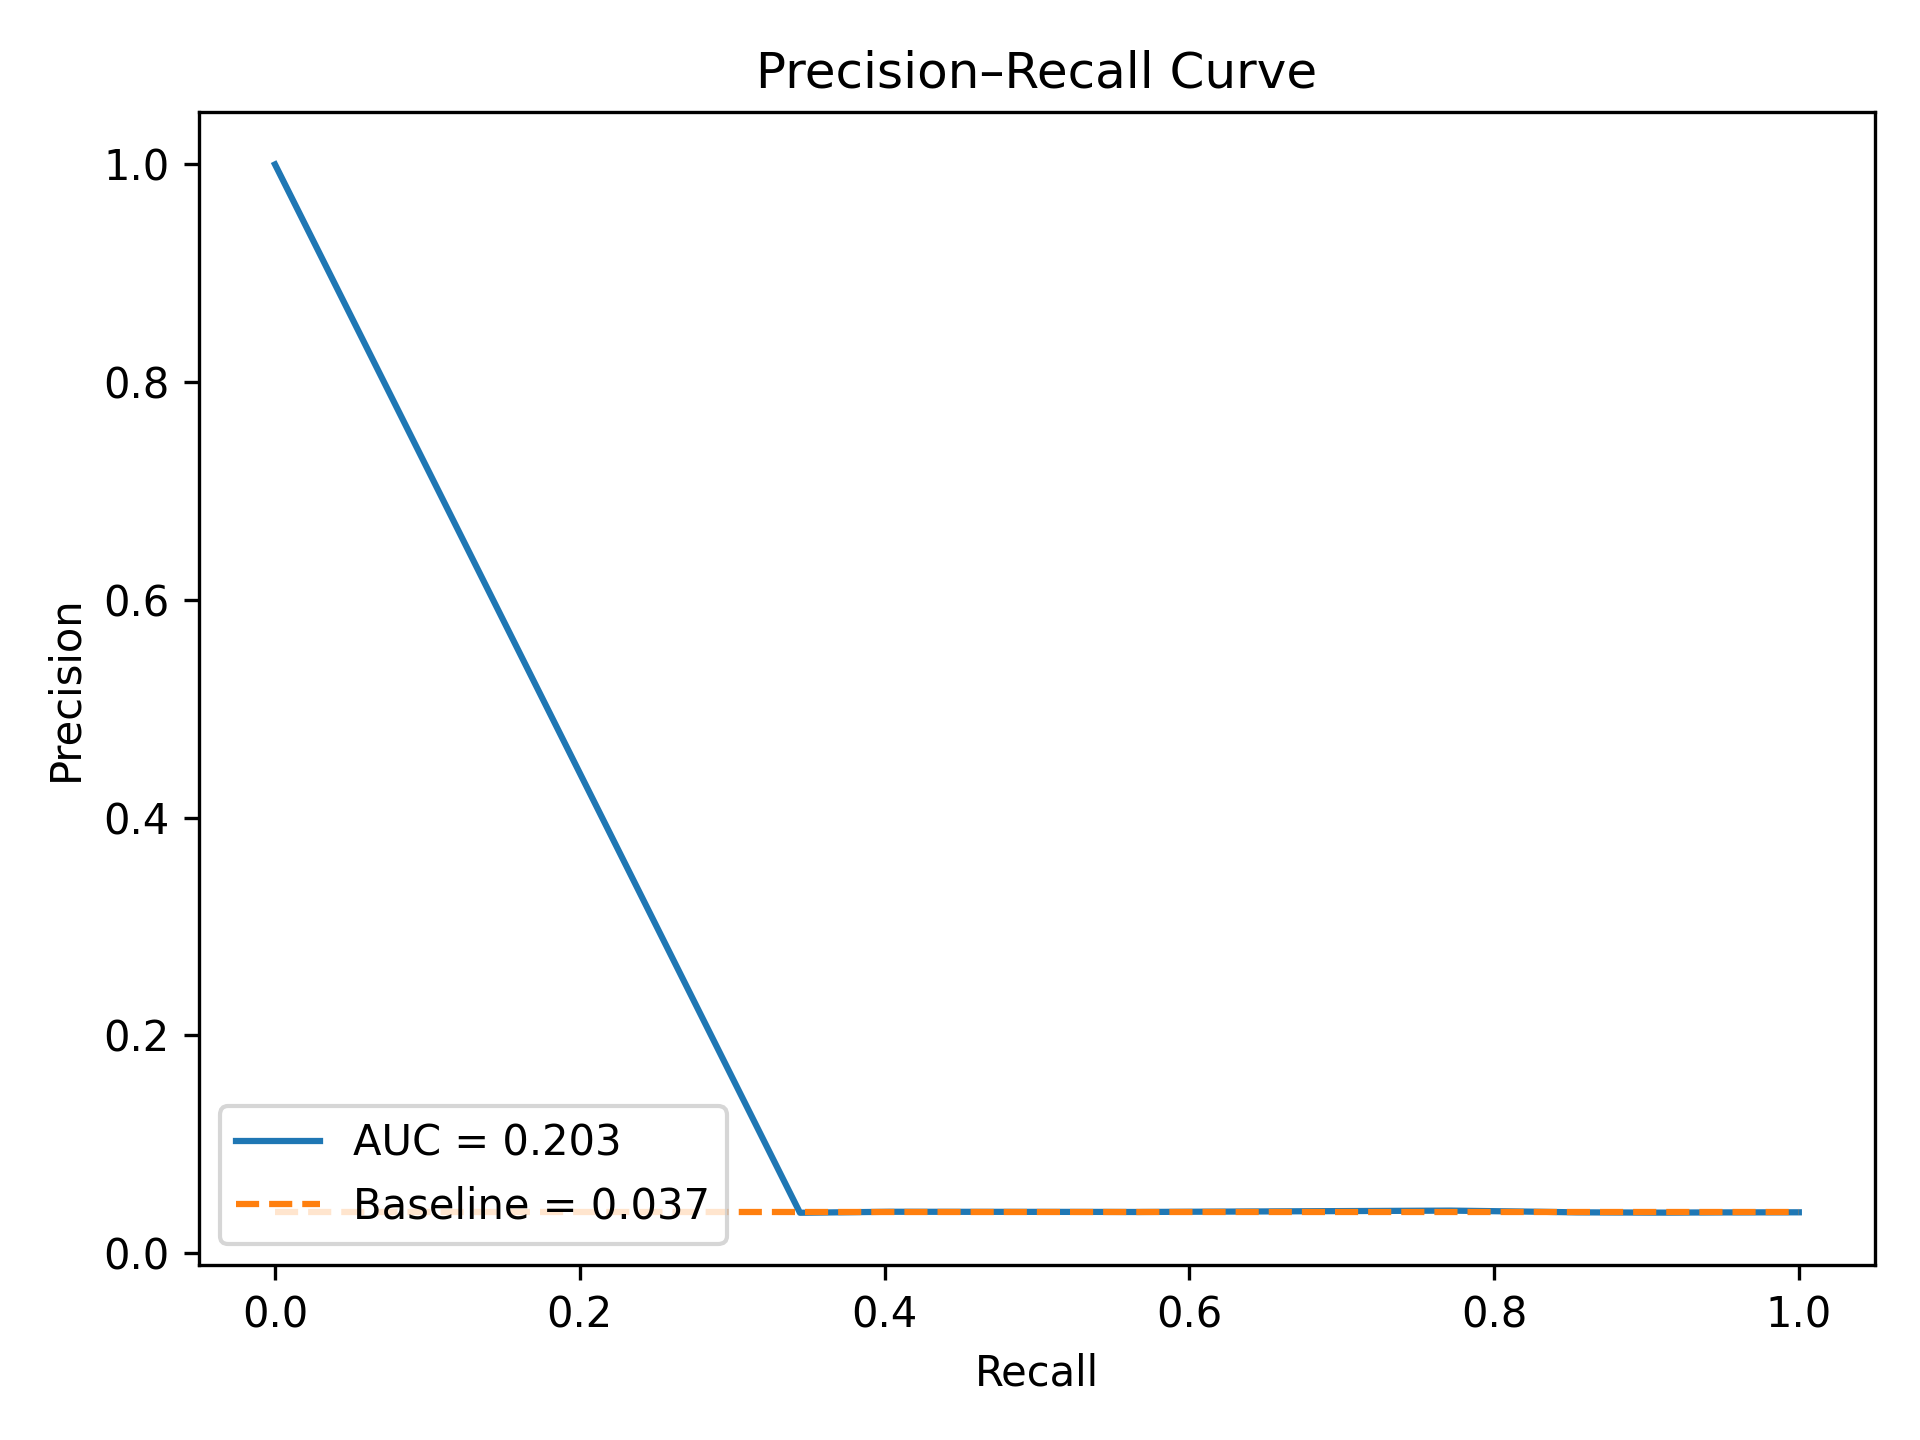
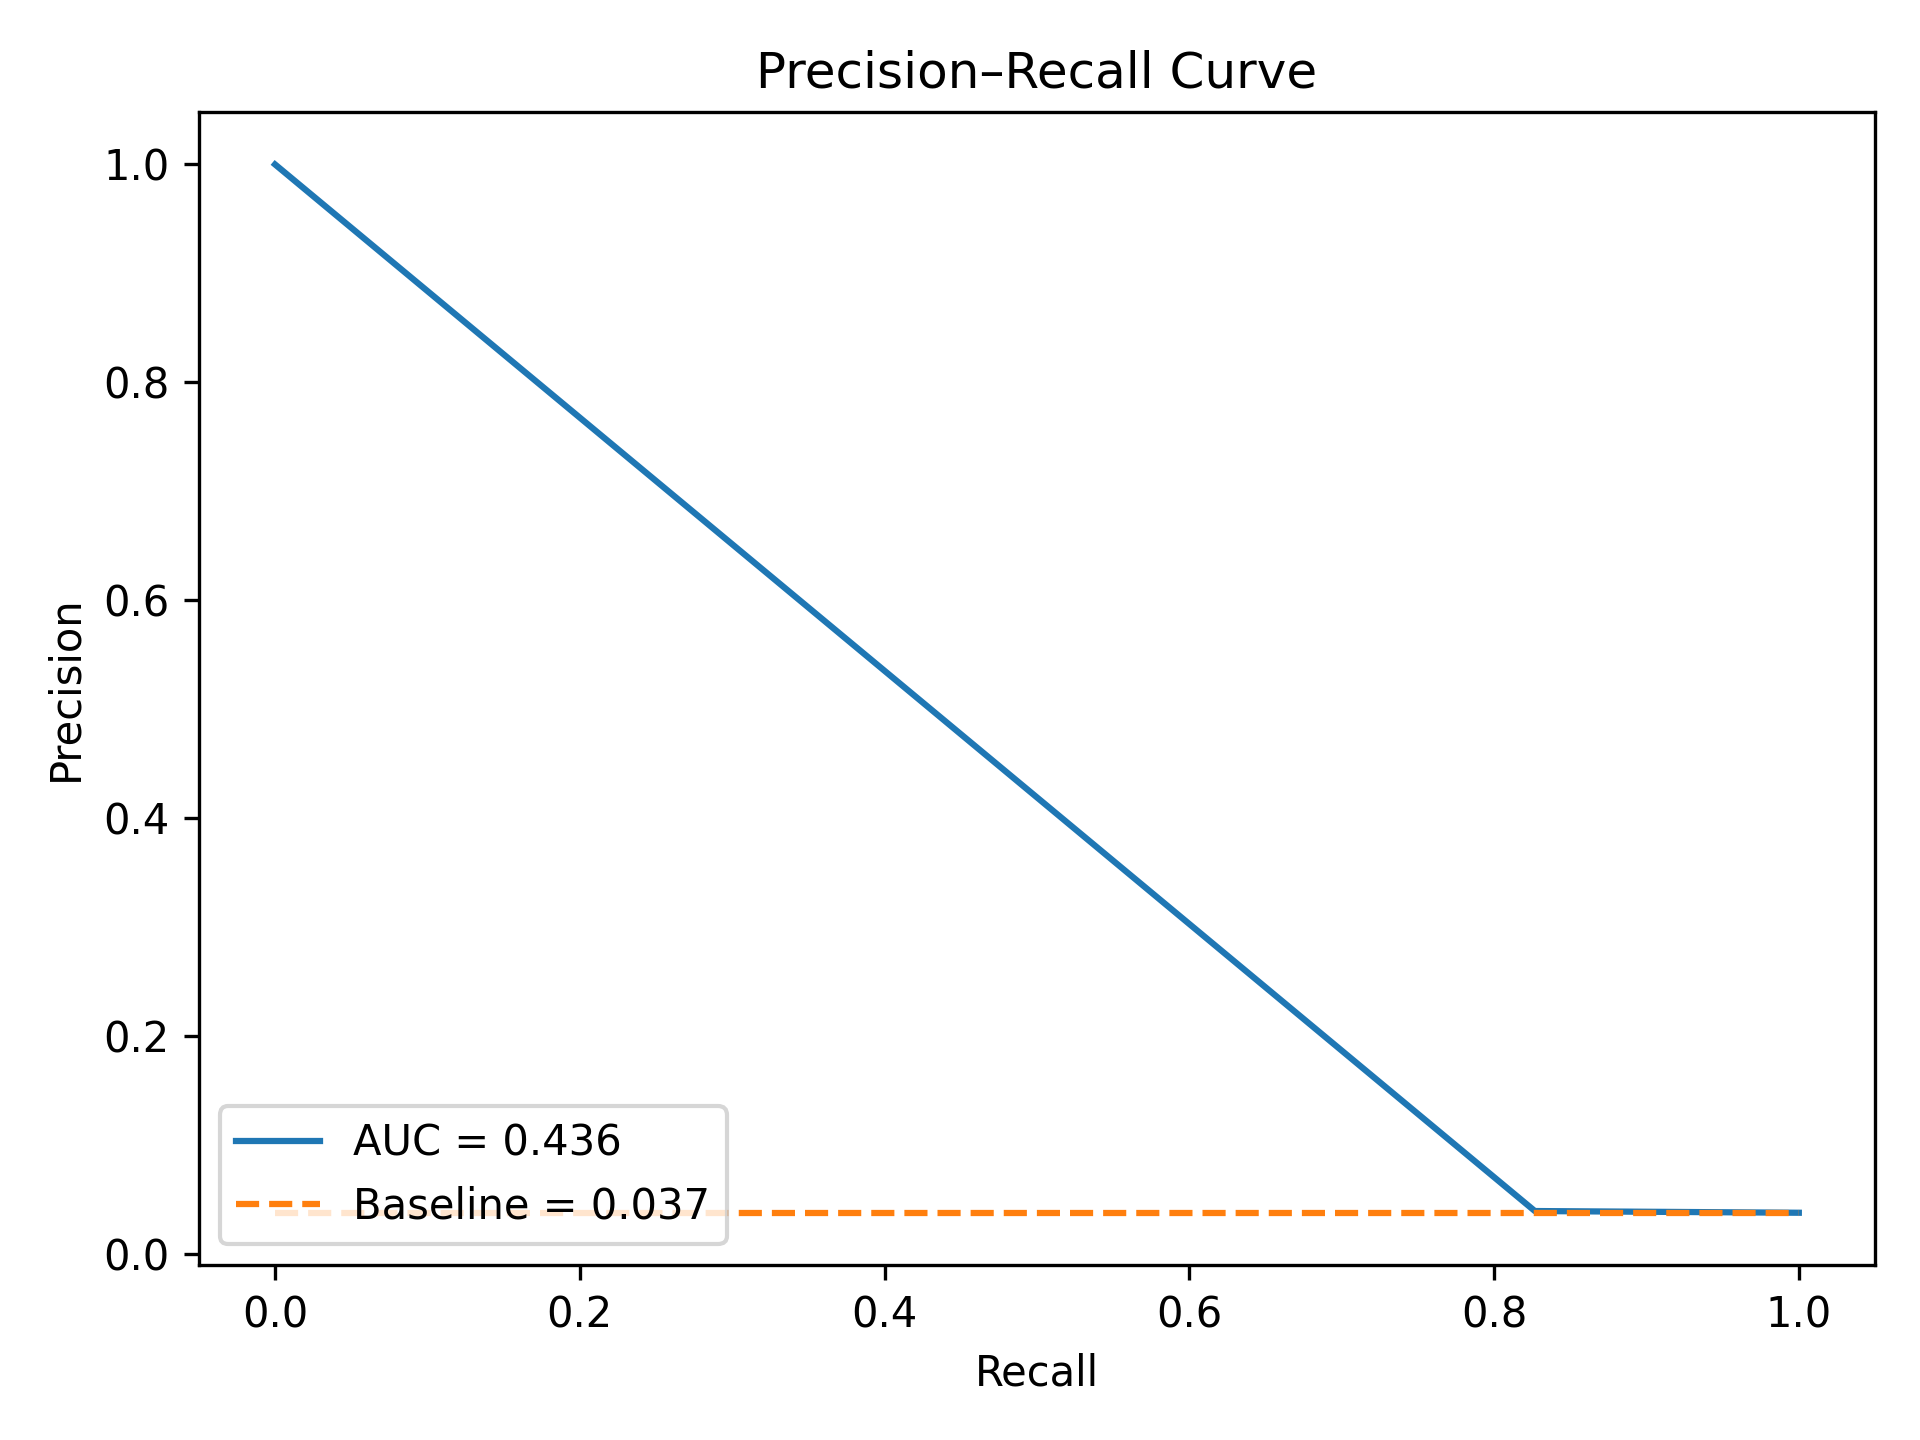
updates

diff --git a/headline_model_trainer.py b/headline_model_trainer.py
@@ -1,14 +1,3 @@
-# Accuracy is high (86.54% on training, 96.25% on validation): This suggests that the model is correctly predicting the majority class.
-# AUC is moderate (0.6623 on training, 0.5993 on validation): The AUC score indicates that the model has some ability to distinguish between classes, but it's not strong.
-# Zero Precision/Recall/F1: This typically happens when the model is not predicting any positive instances (i.e., it's predicting all samples as the negative class).
-
-# Imbalanced Dataset Problem
-# This pattern strongly suggests you have a highly imbalanced dataset. In headline click prediction:
-
-# Most headlines probably have CTR = 0 (no clicks) → the majority class
-# Few headlines have CTR > 0 (got clicks) → the minority class
-
-# The model is taking the "easy way out" by predicting everything as the majority class (no clicks), which gives it a high accuracy but makes it useless for identifying which headlines will get clicks.
 
 import os
 import pandas as pd
@@ -25,6 +14,8 @@ from xgboost import XGBClassifier, XGBRegressor
 from sklearn.metrics import (accuracy_score, precision_score, recall_score, f1_score, 
                             roc_auc_score, confusion_matrix)
 from sklearn.feature_selection import VarianceThreshold
+from sklearn.model_selection import StratifiedKFold, RandomizedSearchCV
+from sklearn.metrics import make_scorer, roc_auc_score
 
 
 # Configure logging
@@ -67,7 +58,7 @@ class HeadlineModelTrainer:
             raise ValueError(f"Could not load embedding model: {e}")
     
     def run_training_pipeline(self, use_cached_features: bool = True,
-                              do_resample: bool = False, feature_sel_thresh=0.4):
+                              do_resample: bool = False, feature_selection_threshold=0.4):
         """Run the complete classification pipeline with train/val/test splits."""
         try:
             # 1) Load splits
@@ -121,21 +112,36 @@ class HeadlineModelTrainer:
                                         y=y_train_binary)
             class_weight = {cls: w for cls, w in zip(np.unique(y_train_binary), weights)}
             logging.info(f"Using class weights: {class_weight}")
-
-            # 7) Train the classifier
-            result = self.train_model(
-                train_feats,
-                train_data['ctr'].values,
-                val_feats,
-                val_data['ctr'].values,
-                output_file='headline_classifier_model.pkl',
-                class_weight=class_weight,
-                do_resample=do_resample
+            
+           
+           # 7a) Perform feature selection *once* and then tune on those features
+            y_train_bin = (train_data['ctr'] > 0).astype(int)
+            selected_features = self.manual_feature_selection(
+            train_feats, 
+            y_train_bin, 
+            threshold=self.feature_selection_threshold
             )
-            if result is None:
-                logging.error("Model training failed.")
-                return None
+            X_sel = train_feats[selected_features]
+            logging.info(f"Tuning hyperparameters on {len(selected_features)} features")
+    
+            best_model = self.tune_hyperparameters(
+                X_sel,
+                train_data['ctr'].values,
+                class_weight,
+                n_iter=30,
+                cv_splits=5
+            )
+            # overwrite model_data to use the tuned model for the rest of the pipeline
+            model_data = {
+                'model': best_model,
+                'feature_names': selected_features,
+                'training_date': pd.Timestamp.now().strftime('%Y-%m-%d %H:%M:%S'),
+                'class_weight': class_weight
+            }
 
+            # 7b) (skip default train_model since we already have best_model)
+            result = model_data
+                        
             # 8) Test‐set predictions (click probabilities)
             if test_data is not None and test_feats is not None and 'selected_features' in result:
                 logging.info("Generating test‐set click probabilities...")
@@ -1028,7 +1034,54 @@ class HeadlineModelTrainer:
         # Sort by predicted CTR
         results = results.sort_values('predicted_ctr', ascending=False).reset_index(drop=True)
         return results
-    
+    def tune_hyperparameters(self,
+                             train_features: pd.DataFrame,
+                             train_ctr: np.ndarray,
+                             class_weight: dict,
+                             n_iter: int = 50,
+                             cv_splits: int = 5):
+        """
+        Run a randomized search to maximize validation AUC.
+        Returns the best estimator.
+        """
+        # 1) Prepare binary target
+        y = (train_ctr > 0).astype(int)
+        X = train_features.copy()
+
+        # 2) Define StratifiedKFold
+        skf = StratifiedKFold(n_splits=cv_splits, shuffle=True, random_state=42)
+
+        # 3) Search space
+        weight_ratio = class_weight.get(0,1) / class_weight.get(1,1)
+        param_dist = {
+            'n_estimators': [100, 200, 300, 500],
+            'max_depth': [2, 3, 4, 5, 6],
+            'learning_rate': [0.01, 0.05, 0.1],
+            'min_child_weight': [1, 3, 5, 7],
+            'subsample': [0.6, 0.8, 1.0],
+            'colsample_bytree': [0.6, 0.8, 1.0],
+            'reg_alpha': [0.0, 0.5, 1, 1.5],
+            'reg_lambda': [0.5, 1.0, 1.5, 2.0],
+            'scale_pos_weight': [weight_ratio]
+        }
+
+        # 4) Set up and run
+        xgb = XGBClassifier(objective='binary:logistic', random_state=42, n_jobs=-1)
+        search = RandomizedSearchCV(
+            estimator=xgb,
+            param_distributions=param_dist,
+            n_iter=n_iter,
+            scoring=make_scorer(roc_auc_score, needs_proba=True),
+            cv=skf,
+            verbose=2,
+            random_state=42
+        )
+        logging.info("Starting hyperparameter search for AUC...")
+        search.fit(X, y)
+        logging.info(f"Best CV AUC: {search.best_score_:.4f}")
+        logging.info(f"Best params: {search.best_params_}")
+        return search.best_estimator_
+   
 def main():
     """Main function to run the headline model training pipeline"""
     import argparse

diff --git a/logistic_baseline.py b/logistic_baseline.py
@@ -1,0 +1,82 @@
+# logistic_baseline.py
+import os
+import pandas as pd
+import numpy as np
+import logging
+
+from sklearn.linear_model import LogisticRegression
+from sklearn.feature_selection import SelectFromModel
+from sklearn.metrics import roc_auc_score
+
+logging.basicConfig(level=logging.INFO, format='%(asctime)s - %(levelname)s - %(message)s')
+
+def main():
+    # 1) Load cached features & raw CTRs
+    FEATURE_DIR = 'model_output/feature_cache'
+    train_feats = pd.read_pickle(os.path.join(FEATURE_DIR, 'train_features.pkl'))
+    val_feats   = pd.read_pickle(os.path.join(FEATURE_DIR, 'val_features.pkl'))
+    test_feats  = pd.read_pickle(os.path.join(FEATURE_DIR, 'test_features.pkl'))
+
+    train_data = pd.read_csv('agentic_news_editor/processed_data/train_headline_ctr.csv')
+    val_data   = pd.read_csv('agentic_news_editor/processed_data/val_headline_ctr.csv')
+    test_data  = pd.read_csv('agentic_news_editor/processed_data/test_headline_ctr.csv')
+
+    y_train = (train_data['ctr'] > 0).astype(int)
+    y_val   = (val_data['ctr'] > 0).astype(int)
+    has_test_ctr = 'ctr' in test_data.columns
+    if has_test_ctr:
+        y_test = (test_data['ctr'] > 0).astype(int)
+
+    # 2) Fit L1‐penalized logistic to select top 10 features
+    selector_lr = LogisticRegression(
+        penalty='l1',
+        solver='liblinear',
+        C=0.1,
+        class_weight='balanced',
+        max_iter=1000,
+        random_state=42
+    )
+    selector_lr.fit(train_feats, y_train)
+
+    selector = SelectFromModel(
+        selector_lr,
+        prefit=True,
+        max_features=10,
+        threshold=-np.inf
+    )
+    keep_feats = train_feats.columns[selector.get_support()].tolist()
+    logging.info(f"Selected {len(keep_feats)} features: {keep_feats}")
+
+    # 3) Retrain a plain logistic on those features and eval AUC on validation
+    X_tr = train_feats[keep_feats]
+    X_va = val_feats[keep_feats]
+    X_te = test_feats[keep_feats]
+
+    baseline = LogisticRegression(
+        class_weight='balanced',
+        solver='liblinear',
+        max_iter=1000,
+        random_state=42
+    )
+    baseline.fit(X_tr, y_train)
+
+    p_val = baseline.predict_proba(X_va)[:, 1]
+    auc_val = roc_auc_score(y_val, p_val)
+    logging.info(f"Logistic baseline VALIDATION AUC = {auc_val:.4f}")
+
+    # 4) (Optional) evaluate on test if both classes present
+    if has_test_ctr and len(np.unique(y_test)) == 2:
+        p_test = baseline.predict_proba(X_te)[:, 1]
+        auc_test = roc_auc_score(y_test, p_test)
+        logging.info(f"Logistic baseline TEST AUC       = {auc_test:.4f}")
+    else:
+        logging.info("Skipping test AUC (need both classes present).")
+
+    # 5) Save your feature list for copy-paste
+    with open('selected_logistic_feats.txt', 'w') as f:
+        for feat in keep_feats:
+            f.write(feat + '\n')
+    logging.info("Wrote selected feature names to selected_logistic_feats.txt")
+
+if __name__ == "__main__":
+    main()

diff --git a/model_output/headline_model_report.md b/model_output/headline_model_report.md
@@ -1,23 +1,23 @@
 # Headline Click Prediction Model Report
-    Generated: 2025-05-12 23:25
+    Generated: 2025-05-13 08:55
 
     ## Model Configuration
     - Model Type: XGBClassifier (Binary Classification)
     - Task: Predict whether a headline will be clicked
-    - Training Time: 0.11 seconds
+    - Training Time: 0.06 seconds
 
     ## Model Performance
     - Training Accuracy : 0.5000
     - Training Precision: 0.0000
     - Training Recall   : 0.0000
     - Training F1 Score : 0.0000
-    - Training AUC      : 0.6425
+    - Training AUC      : 0.5604
     
-    - Validation Accuracy : 0.2794
+    - Validation Accuracy : 0.2311
     - Validation Precision: 0.0390
-    - Validation Recall   : 0.7717
-    - Validation F1 Score : 0.0743
-    - Validation AUC      : 0.5048
+    - Validation Recall   : 0.8268
+    - Validation F1 Score : 0.0746
+    - Validation AUC      : 0.5173
     
     ## Dataset Summary
     - Training headlines  : 28648
@@ -27,16 +27,8 @@
     - Validation click rate: 0.0375
 
     ## Key Feature Importances
-    - has_colon: 0.3026
-- has_quote: 0.2220
-- has_controversy: 0.1493
-- num_count: 0.1216
-- title_case_ratio: 0.1029
-- has_number: 0.0903
-- has_date: 0.0111
-- has_urgency: 0.0000
-- has_positive: 0.0000
-- has_question_words: 0.0000
+    - has_colon: 0.5450
+- has_quote: 0.4550
 
     ## Usage Guidelines
     This model predicts the probability that a headline will be clicked.
